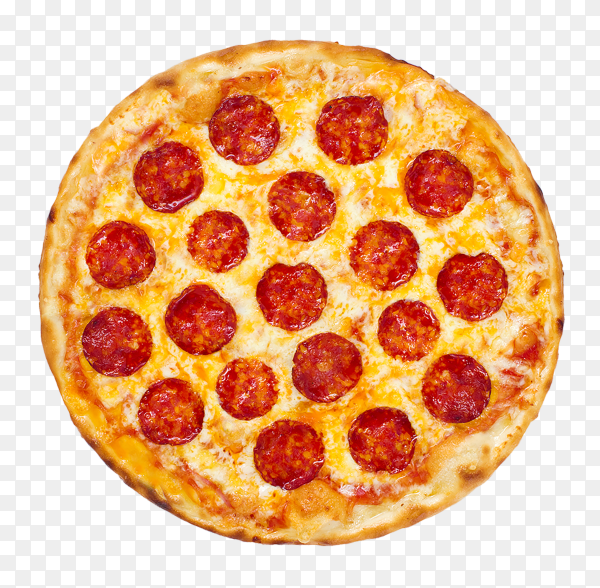
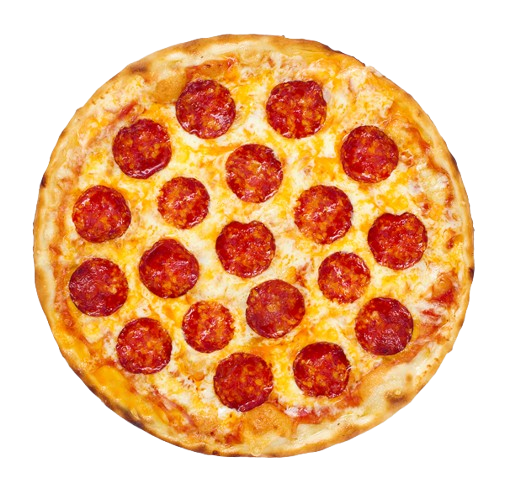
Added tabs

diff --git a/src/components/ui/tabs.tsx b/src/components/ui/tabs.tsx
@@ -1,0 +1,55 @@
+"use client"
+
+import * as React from "react"
+import * as TabsPrimitive from "@radix-ui/react-tabs"
+
+import { cn } from "@/lib/utils"
+
+const Tabs = TabsPrimitive.Root
+
+const TabsList = React.forwardRef<
+  React.ElementRef<typeof TabsPrimitive.List>,
+  React.ComponentPropsWithoutRef<typeof TabsPrimitive.List>
+>(({ className, ...props }, ref) => (
+  <TabsPrimitive.List
+    ref={ref}
+    className={cn(
+      "inline-flex h-10 items-center justify-center rounded-md bg-muted p-1 text-muted-foreground",
+      className
+    )}
+    {...props}
+  />
+))
+TabsList.displayName = TabsPrimitive.List.displayName
+
+const TabsTrigger = React.forwardRef<
+  React.ElementRef<typeof TabsPrimitive.Trigger>,
+  React.ComponentPropsWithoutRef<typeof TabsPrimitive.Trigger>
+>(({ className, ...props }, ref) => (
+  <TabsPrimitive.Trigger
+    ref={ref}
+    className={cn(
+      "inline-flex items-center justify-center whitespace-nowrap rounded-sm px-3 py-1.5 text-sm font-medium ring-offset-background transition-all focus-visible:outline-none focus-visible:ring-2 focus-visible:ring-ring focus-visible:ring-offset-2 disabled:pointer-events-none disabled:opacity-50 data-[state=active]:bg-background data-[state=active]:text-foreground data-[state=active]:shadow-sm",
+      className
+    )}
+    {...props}
+  />
+))
+TabsTrigger.displayName = TabsPrimitive.Trigger.displayName
+
+const TabsContent = React.forwardRef<
+  React.ElementRef<typeof TabsPrimitive.Content>,
+  React.ComponentPropsWithoutRef<typeof TabsPrimitive.Content>
+>(({ className, ...props }, ref) => (
+  <TabsPrimitive.Content
+    ref={ref}
+    className={cn(
+      "mt-2 ring-offset-background focus-visible:outline-none focus-visible:ring-2 focus-visible:ring-ring focus-visible:ring-offset-2",
+      className
+    )}
+    {...props}
+  />
+))
+TabsContent.displayName = TabsPrimitive.Content.displayName
+
+export { Tabs, TabsList, TabsTrigger, TabsContent }

diff --git a/src/app/(Home)/page.tsx b/src/app/(Home)/page.tsx
@@ -1,4 +1,5 @@
 import { Button } from "@/components/ui/button";
+import { Tabs, TabsContent, TabsList, TabsTrigger } from "@/components/ui/tabs";
 import Image from "next/image";
 
 export default function Home() {
@@ -20,12 +21,28 @@ export default function Home() {
           </div>
           <div className=" ">
             <Image
-              src={"/pizz-main.jpg"}
+              src={"/pizza-main.png"}
               alt="main-image"
               width={400}
               height={400}
             />
           </div>
+        </div>
+      </section>
+      <section>
+        <div className=" container mx-auto py-12">
+          <Tabs defaultValue="pizza" className="w-[400px]">
+            <TabsList>
+              <TabsTrigger value="account" className=" text-md">
+                Pizza
+              </TabsTrigger>
+              <TabsTrigger value="password" className=" text-md">
+                Beverages
+              </TabsTrigger>
+            </TabsList>
+            <TabsContent value="pizza">Pizza List</TabsContent>
+            <TabsContent value="beverages">BEvrages list</TabsContent>
+          </Tabs>
         </div>
       </section>
     </>
